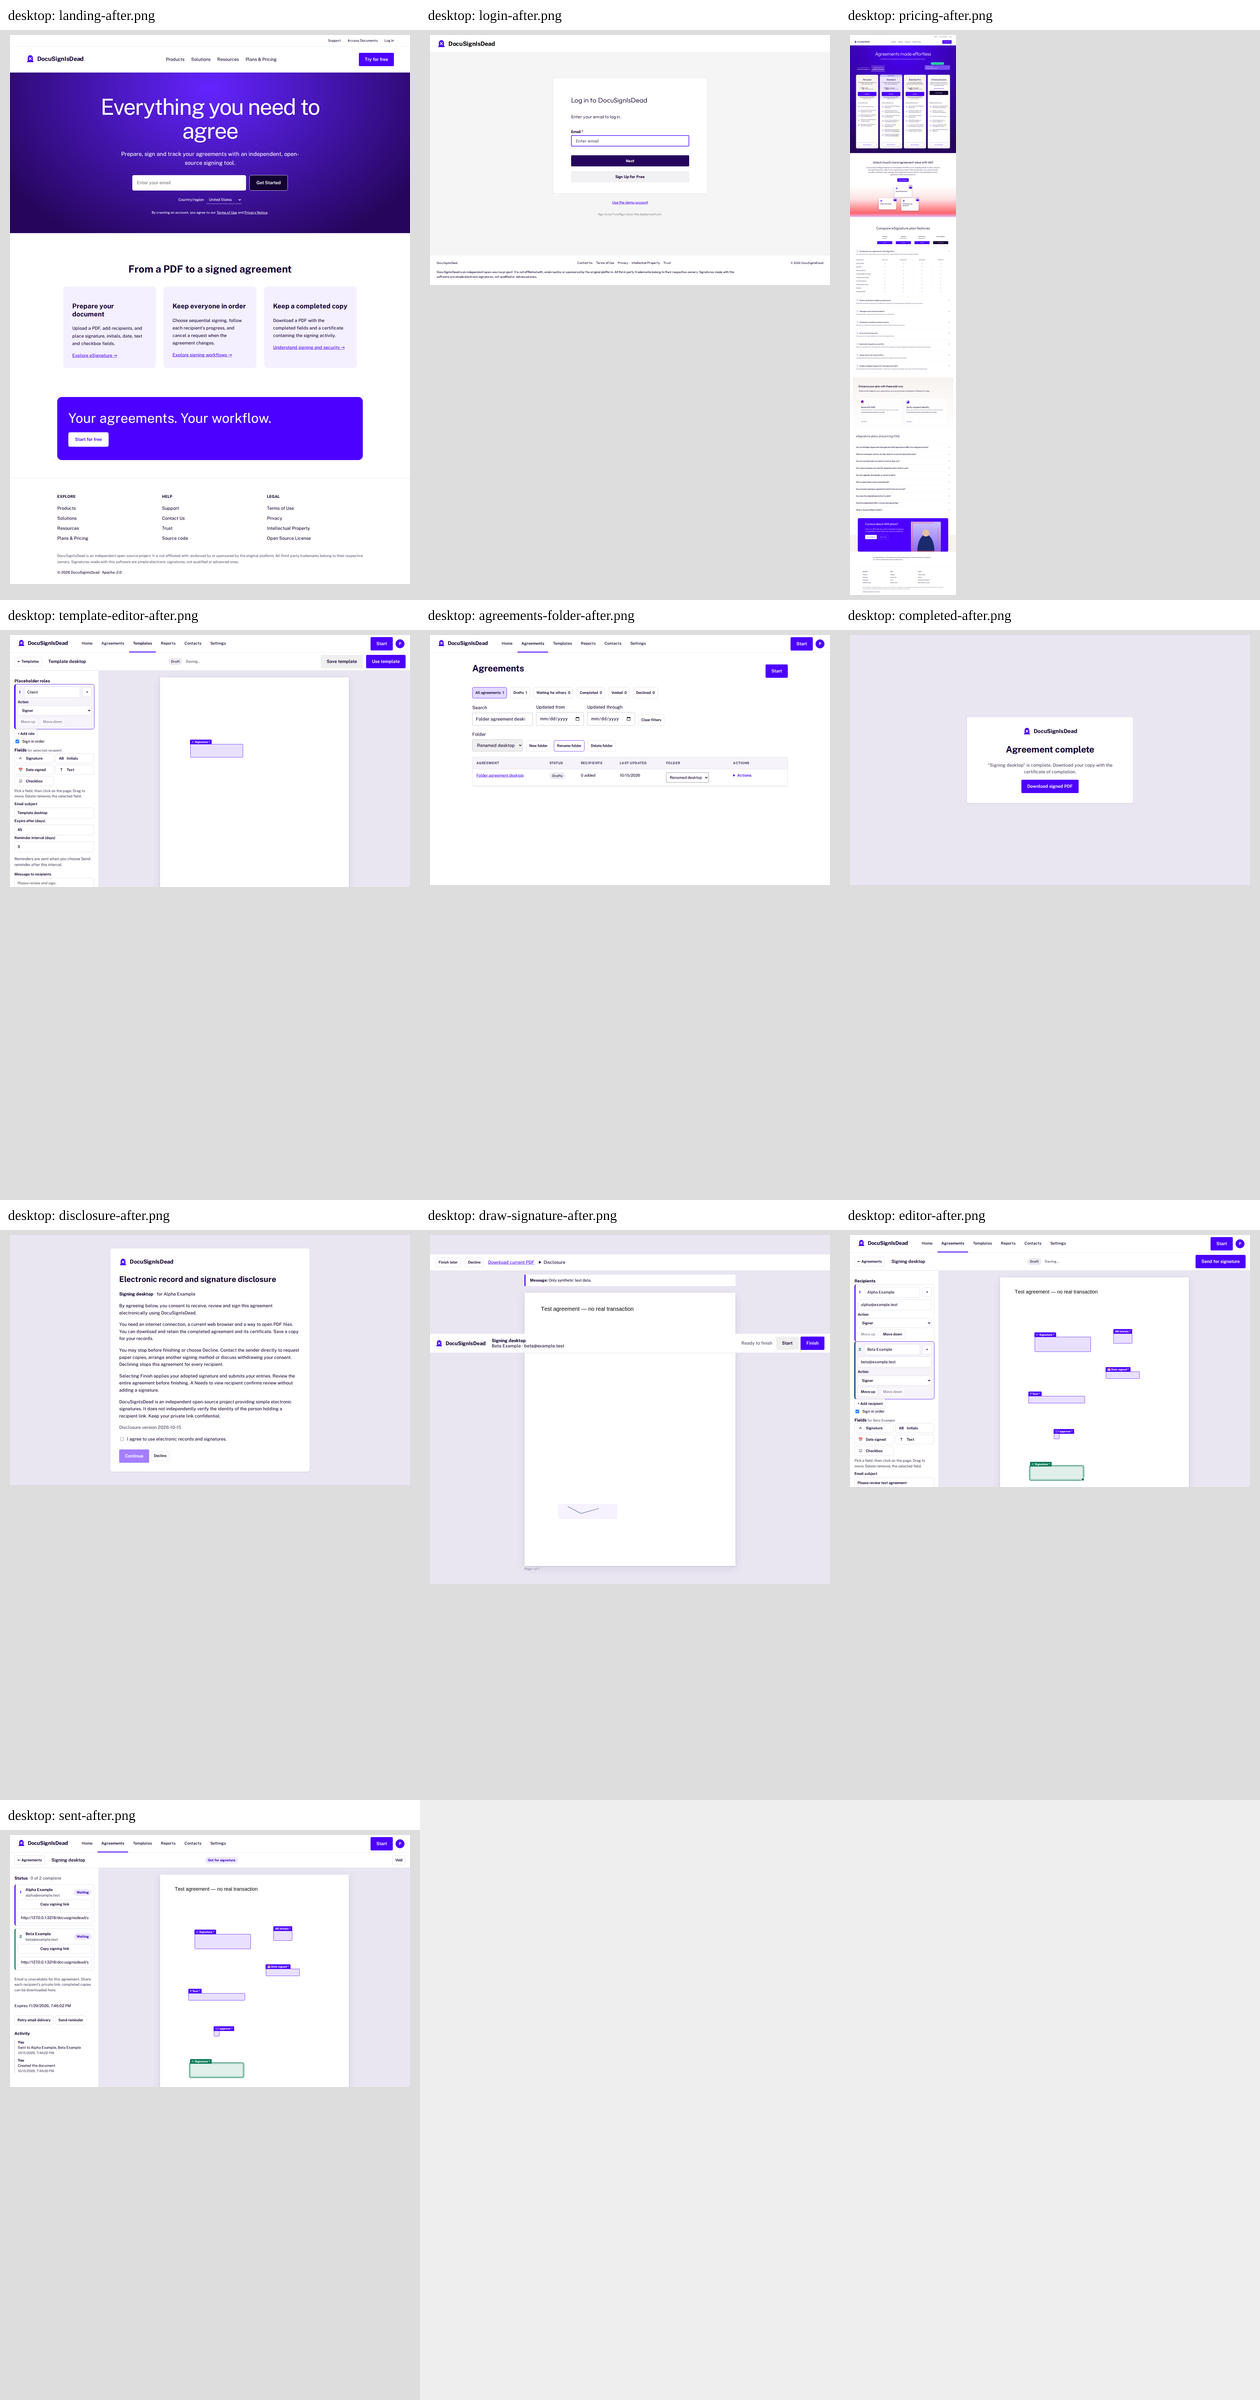
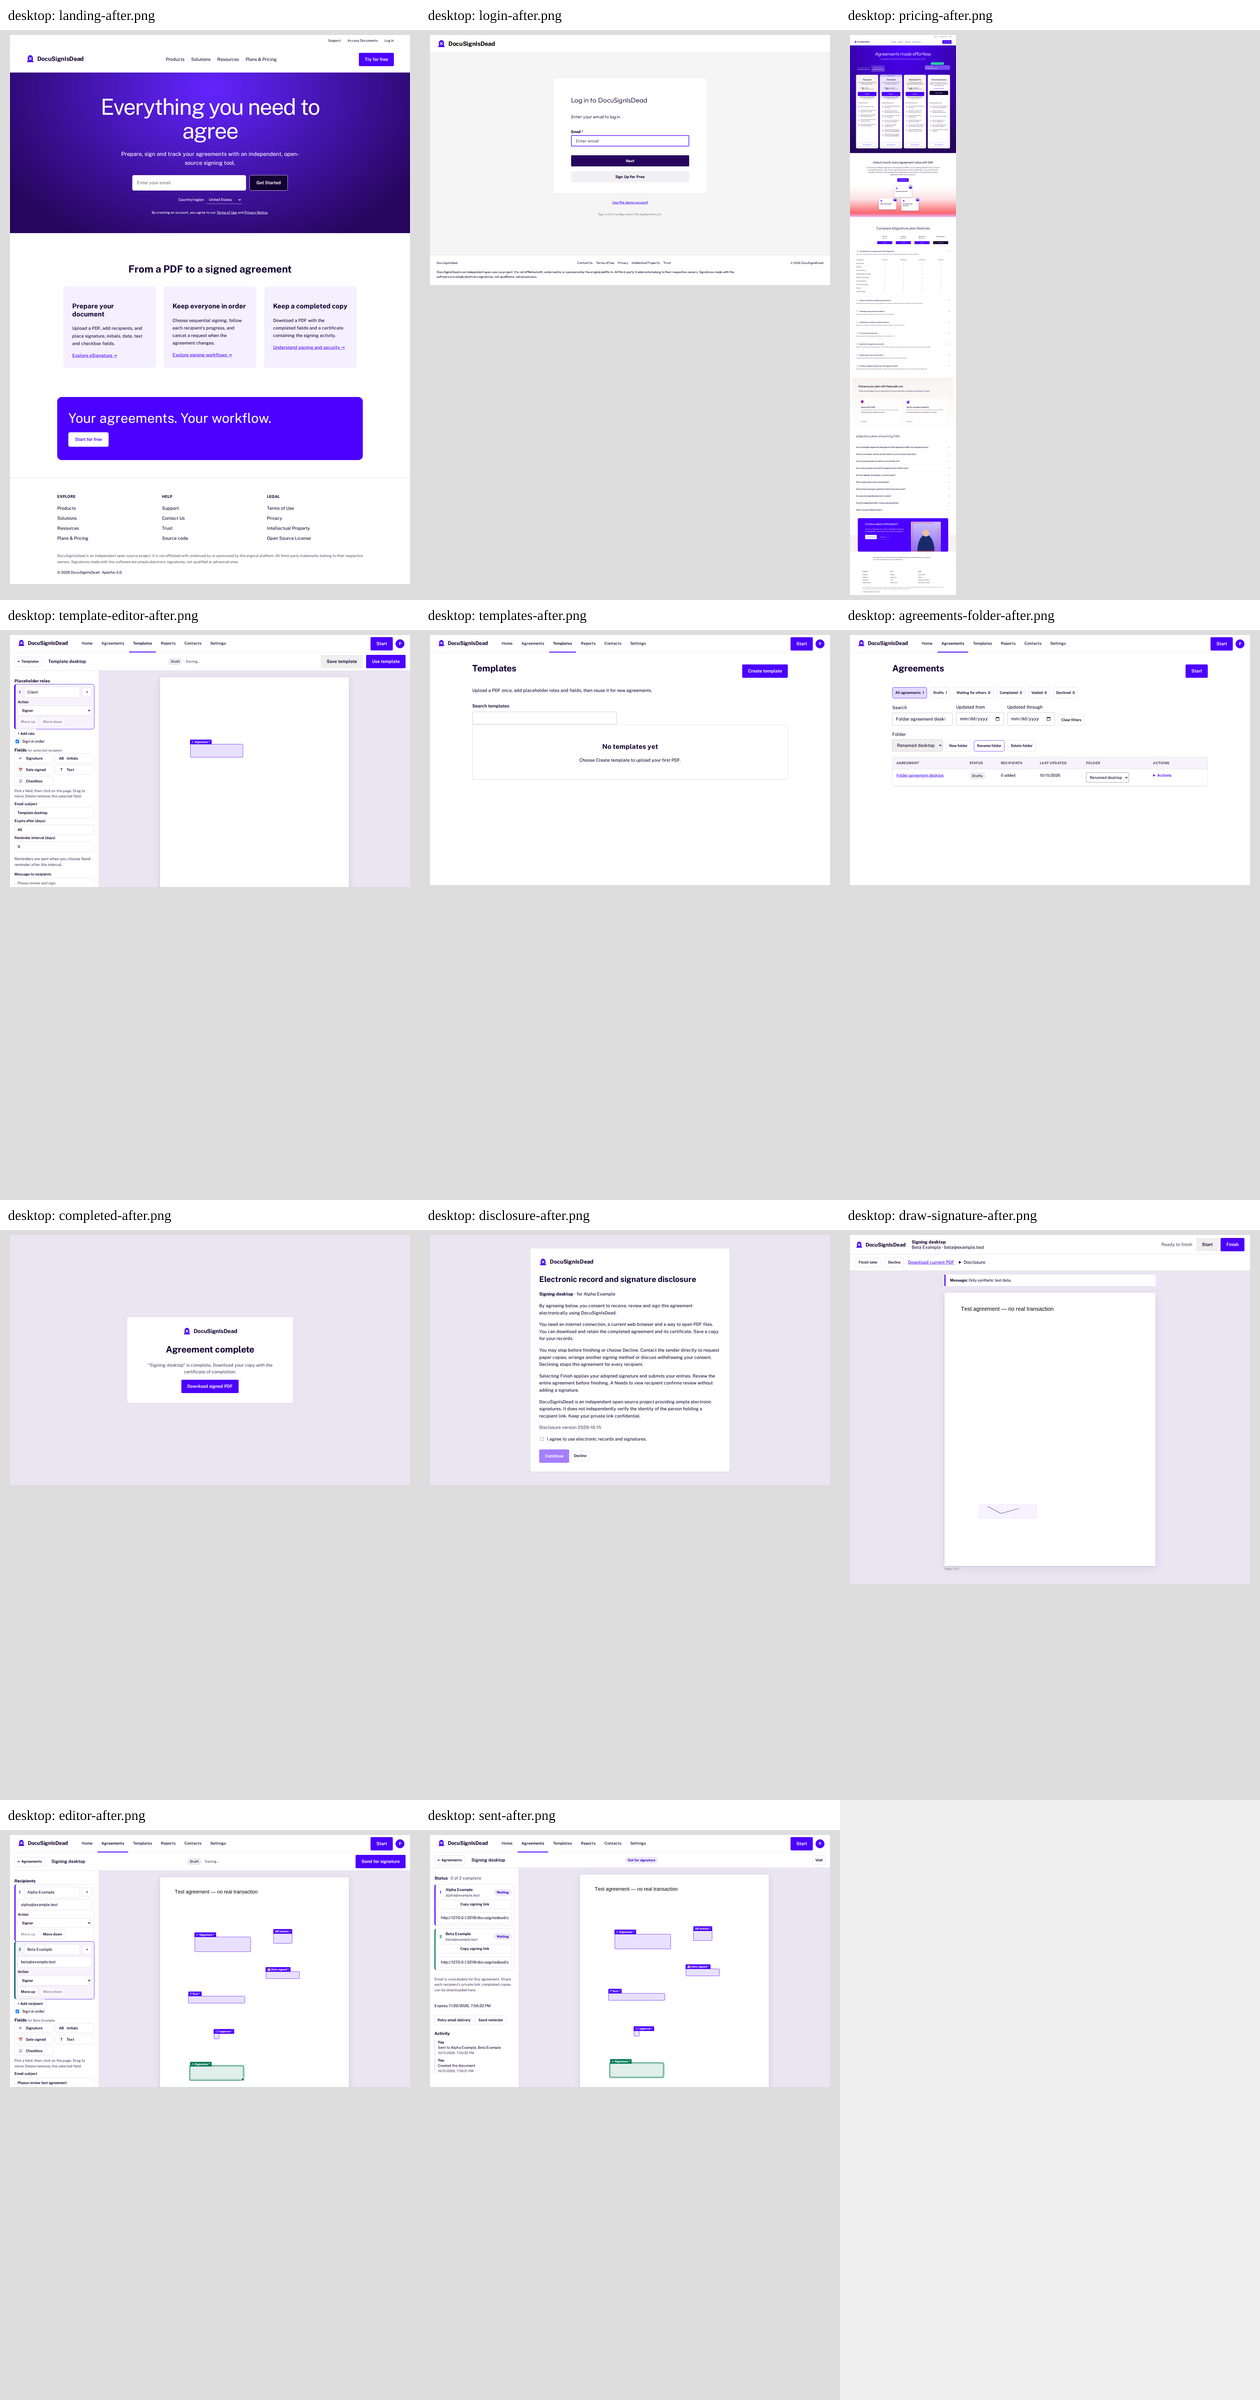
Retain desktop and mobile before-after parity evidence
Verified local tree: 9bb8ef3281536e4e4b9621d65e99112ddf1731be

diff --git a/docs/PARITY_REPORT.md b/docs/PARITY_REPORT.md
@@ -8,9 +8,9 @@ The supplied QA findings are implemented as functional requirements. The real si
 
 Local validation: lint, typecheck, production build and **36 unit/integration tests pass**. Tests use isolated temporary storage and synthetic `.test` addresses. Email provider calls are mocked. No actual email, real envelope or real person’s document has been sent/signed. No environment files or secrets were read, changed or committed. Payment behavior is unchanged.
 
-A real-browser suite covers desktop 1440×900 and mobile 390×844, including actual click/fill/select/pointer events. [GitHub Actions run 38796271097](https://github.com/tommy-muckstack/docusignisdead/actions/runs/38796271097) passed lint, typecheck, production build, **36 unit/integration tests and all 22 browser tests**, testing commit `1adf2d60a82be9f2f821ce3324ff748daaa15a06`. Coverage includes public routes/assets/overflow, contacts/settings, folders, template persistence, field drag/resize, Type/Draw and required fields, saved progress, ordered signer/CC/viewer routing, PDF completion, Void, decline and Delete. The initial run exposed ambiguous selectors and a stale template editor view; both were corrected before this passing run.
+A real-browser suite covers desktop 1440×900 and mobile 390×844, including actual click/fill/select/pointer events. [GitHub Actions run 38797692714](https://github.com/tommy-muckstack/docusignisdead/actions/runs/38797692714) passed lint, typecheck, production build, **36 unit/integration tests and all 22 browser tests**, testing commit `532bf749b7d191b91e0253143ffa0e95b149dd5f`. Coverage includes public routes/assets/overflow, contacts/settings, folders, template persistence, field drag/resize, Type/Draw and required fields, saved progress, ordered signer/CC/viewer routing, PDF completion, Void, decline and Delete. The initial run exposed ambiguous selectors and a stale template editor view; both were corrected before this passing run.
 
-Desktop and mobile contact sheets were visually reviewed for the landing/login/pricing pages, agreements, template/send editors, disclosure, drawn signature and completion screen. Permanent [desktop](evidence/parity-desktop.png) and [mobile](evidence/parity-mobile.png) sheets are included here. Full-resolution before/after screenshots, the HTML browser report and server logs are in the [parity-browser-evidence artifact](https://github.com/tommy-muckstack/docusignisdead/actions/runs/38796271097/artifacts/12001289485), retained until 2026-10-29. Screenshots named `*-before.png` use baseline `a02d30e`; `*-after.png` use the tested implementation. These compare the old clone with the new clone, not with the signed-in reference product. Full-page captures can place sticky navigation at the scroll position reached during the interaction.
+Desktop and mobile contact sheets were visually reviewed for the landing/login/pricing pages, agreements, template/send editors, disclosure, drawn signature and completion screen. Permanent sheets are included: desktop [before](evidence/parity-desktop-before.png) / [after](evidence/parity-desktop.png), and mobile [before](evidence/parity-mobile-before.png) / [after](evidence/parity-mobile.png). The baseline capture includes the send editor, sent state, signature adoption and completion. Full-resolution before/after screenshots, the HTML browser report and server logs are in the [parity-browser-evidence artifact](https://github.com/tommy-muckstack/docusignisdead/actions/runs/38797692714/artifacts/12002164154), retained until 2026-10-29. Screenshots named `*-before.png` use baseline `a02d30e`; `*-after.png` use the tested implementation. These compare the old clone with the new clone, not with the signed-in reference product. Workspace captures reset scroll position to keep sticky navigation at the top.
 
 ## Findings
 
